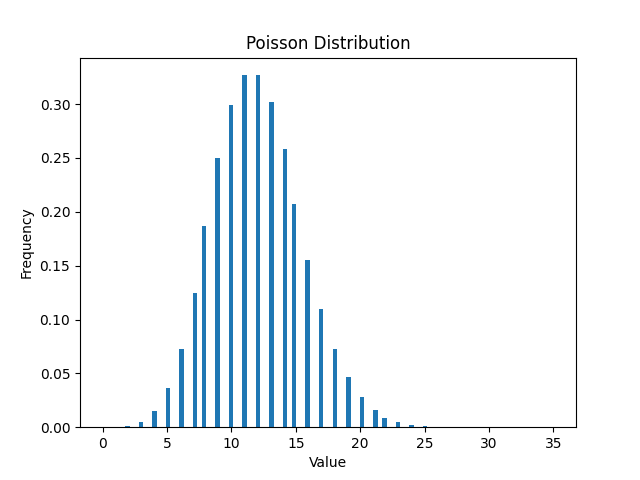
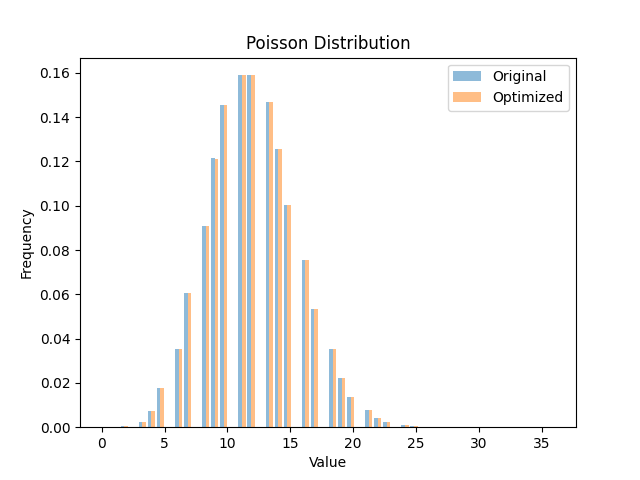
comparison

diff --git a/pois.py b/pois.py
@@ -1,13 +1,31 @@
 import jax
 from jax import lax, numpy as jnp
-from jax.random import uniform, split as _split
+from jax.random import uniform, poisson
 from functools import partial
 from timeit import default_timer as time
 from matplotlib import pyplot as plt
 import numpy as np
+from jax import jit
 
-@partial(jax.jit, static_argnums=(2, 3, 4))
-def sample_until_enough(key, lam, shape, dtype, max_iters) -> jnp.ndarray:
+Array = jnp.ndarray
+
+
+def num_samples(lam, N):
+    assert lam >= 1.0
+    assert N > 0
+    b = 0.931 + 2.53 * lax.sqrt(lam)
+    inv_alpha = 1.1239 + 1.1328 / (b - 3.4)
+
+    # Estimate acceptance probability (approximate)
+    p_accept = 1 / inv_alpha
+
+    # Total samples to generate (with safety margin)
+    total_samples = int(N / p_accept * 1.2)
+    return total_samples
+
+
+@partial(jit, static_argnums=(2, 3, 4, 5))
+def _poisson_rejection(key, lam, shape, dtype, max_iters, n) -> Array:
     N = shape[0]  # Number of required samples
 
     # Parameters of the rejection algorithm
@@ -16,13 +34,6 @@ def sample_until_enough(key, lam, shape, dtype, max_iters) -> jnp.ndarray:
     a = -0.059 + 0.02483 * b
     inv_alpha = 1.1239 + 1.1328 / (b - 3.4)
     v_r = 0.9277 - 3.6224 / (b - 2)
-
-    # Estimate acceptance probability (approximate)
-    p_accept = 0.9  # TODO: Dynamically adjust this value as 1 / inv_alpha
-
-    # Total samples to generate (with safety margin)
-    total_samples = int(N / p_accept * 1.2)
-    total_samples = max(total_samples, N * 2)  # Ensure we have at least 2*N samples
 
     def rejection_sampler(key, total_samples):
         key, subkey_u, subkey_v = jax.random.split(key, 3)
@@ -42,30 +53,49 @@ def sample_until_enough(key, lam, shape, dtype, max_iters) -> jnp.ndarray:
         return key, k.astype(dtype), accept
 
     # Generate samples
-    key, k_samples, accept_flags = rejection_sampler(key, total_samples)
+    key, k_samples, accept_flags = rejection_sampler(key, n)
     accept_idx = jnp.nonzero(accept_flags, size=N, fill_value=int(1e9))[0]
     k_samples = jnp.take(k_samples, accept_idx, fill_value=int(1e9))
     return k_samples
+
 
 if __name__ == "__main__":
     key = jax.random.PRNGKey(0)
     lam = 12.0
     shape = (int(2**25),)
+    n = num_samples(lam, shape[0])
+    print("oversampling factor", n / shape[0])  # oversampling factor
     print(shape)
     dtype = jnp.int32
     max_iters = int(1e9)
 
-    sample_until_enough(key, lam, shape, dtype, max_iters)
+    _poisson_rejection(key, lam, shape, dtype, max_iters, n)
+    poisson(key, lam, shape)
 
     # Benchmark the function
     start = time()
-    arr = sample_until_enough(key, lam, shape, dtype, max_iters)
-    arr.block_until_ready()
+    new_arr = _poisson_rejection(key, lam, shape, dtype, max_iters, n)
+    new_arr.block_until_ready()
     end = time()
     print(f"Execution time: {end - start:.6f} seconds")
 
+    start = time()
+    ori_arr = poisson(key, lam, shape)
+    ori_arr.block_until_ready()
+    end = time()
+    print(f"Original Execution time: {end - start:.6f} seconds")
+
     # Plot the histogram
-    plt.hist(np.array(arr), bins=100, density=True)
+    all_samples = [ori_arr, new_arr]
+    all_samples = np.array(all_samples)
+    plt.hist(
+        all_samples.T,
+        bins=50,
+        alpha=0.5,
+        label=["Original", "Optimized", "NumPy"],
+        density=True,
+    )
+    plt.legend()
     plt.xlabel("Value")
     plt.ylabel("Frequency")
     plt.title("Poisson Distribution")
